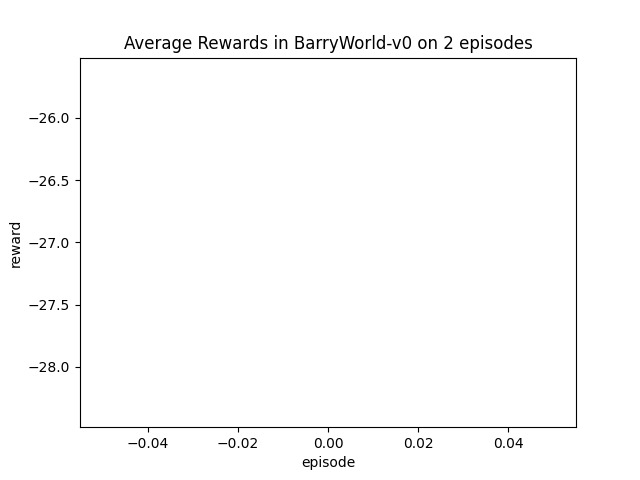
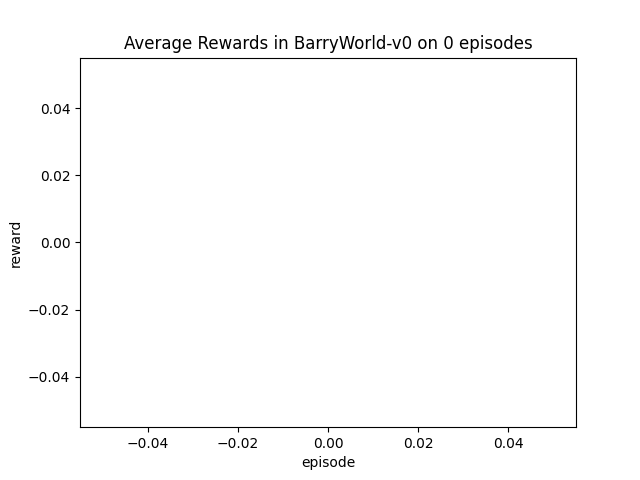
Solved issues in testSuite

diff --git a/DQN/testSuite.py b/DQN/testSuite.py
@@ -14,9 +14,12 @@ should implement the method set_user_parameters.
 """
 
 
-def get_input(name):
+def get_input(name, floats=False):
     print(f'Enter NUMERAL inputs for {name} you want to check, separated by spaces.')
-    lower, upper, step = map(float, input('Input form: range(<LOWER>, <UPPER>, <STEP-SIZE>) ').split()[:3])
+    if floats:
+        lower, upper, step = map(float, input('Input form: range(<LOWER>, <UPPER>, <STEP-SIZE>) ').split()[:3])
+    else:
+        lower, upper, step = map(int, input('Input form: range(<LOWER>, <UPPER>, <STEP-SIZE>) ').split()[:3])
     return [x for x in arange(lower, upper, step)]
 
 
@@ -35,14 +38,18 @@ def handle_two_rooms(rooms_trainer: Trainer):
         - step size
     """
 
-    toggle_values = get_input("toggle values")
-    step_sizes = get_input("step sizes")
+    toggle_values = get_input("toggle values", floats=True)
+    step_sizes = get_input("step sizes", floats=False)
+    assert 0 not in step_sizes, "Step size can't be 0"
     for step_size in step_sizes:
         for toggle_value in toggle_values:
             rooms_trainer.env.reset()
             rooms_trainer.env.set_user_parameters({'TOGGLE': toggle_value, 'step_size': step_size})
-            trainer.start(save=True)
-            trainer.plot(save=True)
+            try:
+                trainer.start(save=True)
+                trainer.plot(save=True)
+            except ValueError:
+                continue
 
 
 def handle_words_world(words_trainer: Trainer):
@@ -56,7 +63,7 @@ def handle_words_world(words_trainer: Trainer):
 
     params = ["add_states", "add_counts", "add_most_used", "add_interval"]
 
-    add_states_vals = get_boolean_input("add_state")
+    add_states_vals = get_boolean_input("add_states")
     add_counts_vals = get_boolean_input("add_counts")
     add_most_used_vals = get_boolean_input("add_most_used")
     add_interval_vals = get_boolean_input("add_interval")
@@ -66,10 +73,16 @@ def handle_words_world(words_trainer: Trainer):
                 for interval in add_interval_vals:
                     words_trainer.env.reset()
                     vals = [state, count, most_used, interval]
+                    if not any(vals):  # The history repr must be non-empty
+                        continue
                     par_dic = {par: val for (par, val) in zip(params, vals)}
                     words_trainer.env.set_user_parameters(par_dic)
-                    words_trainer.start(save=True)
-                    words_trainer.plot(save=True)
+                    try:
+                        words_trainer.start(save=True)
+                        words_trainer.plot(save=True)
+                    except ValueError as v:
+                        print(v)
+                        continue
 
 
 def handle_barry_world(barry_trainer: Trainer):
@@ -93,10 +106,15 @@ def handle_barry_world(barry_trainer: Trainer):
                 for interval in INTERVAL_vals:
                     barry_trainer.env.reset()
                     vals = [state, count, most_used, interval]
+                    if not any(vals):  # The history repr must be non-empty
+                        continue
                     par_dic = {par: val for (par, val) in zip(params, vals)}
                     barry_trainer.env.set_user_parameters(par_dic)
-                    barry_trainer.start(save=True)
-                    barry_trainer.plot(save=True)
+                    try:
+                        barry_trainer.start(save=True)
+                        barry_trainer.plot(save=True)
+                    except ValueError:
+                        continue
 
 
 def handle_cookie_domain(cookie_trainer: Trainer):
@@ -105,14 +123,15 @@ def handle_cookie_domain(cookie_trainer: Trainer):
 
 
 if __name__ == '__main__':
-    possible_envs = ['BarryWorld-v0', 'TwoRooms-v0', 'CookieDomain-v0', 'WordsWorld-v0']
+    possible_envs = ['BarryWorld-v0', 'TwoRooms-v0', 'WordsWorld-v0']
+    # CookieDomain-v0 doesn't yet have adjustable parameters
     possible_modes = ['train', 'test']
     possible_envs_choices = '\n'.join([f"({possible_envs.index(env)}) {env}" for env in possible_envs])
     env_index = int(input('Index of environment to train in:\n' + possible_envs_choices + '\n'))
     env = possible_envs[env_index]
     trainer = Trainer(env)
 
-    mode_index = int(input('Do you want to train (0) or test (1) the agent? '))
+    mode_index = int(input('Do you want to train (0) or test (1) the agent?\n'))
     mode = possible_modes[mode_index]
     if mode == "train":
         if env == "TwoRooms-v0":
@@ -121,13 +140,9 @@ if __name__ == '__main__':
             handle_words_world(trainer)
         elif env == "BarryWorld-v0":
             handle_barry_world(trainer)
-
-    if mode == "train":
-        trainer.start(save=True)
-        trainer.plot(save=True)
     elif mode == "test":
         filepath = "(500)States:3-231.h5"
-        weights = input('Name of .h5-weights file: (leave empty if none) ')
+        weights = input('Name of .h5-weights file: (leave empty if none)\n')
         if weights:
             filepath = weights
         dir_path = os.path.dirname(os.path.realpath(__file__))

diff --git a/DQN/CookieDomain/envs/cookie_domain_dir/words_world.py b/DQN/CookieDomain/envs/cookie_domain_dir/words_world.py
@@ -32,7 +32,6 @@ class WordsWorld(gym.Env):
         self.repr_length = 0
         self.construct_repr_length()
         self.action_space = spaces.Discrete(len(self.actions))
-        self.observation_space = spaces.Discrete(self.repr_length)
 
         self.steps = 0
 
@@ -47,6 +46,7 @@ class WordsWorld(gym.Env):
             self.repr_length += 1
         if self.add_interval:
             self.repr_length += self.n_prev_states
+        self.observation_space = spaces.Discrete(self.repr_length)
 
     def set_user_parameters(self, params: dict):
         """
